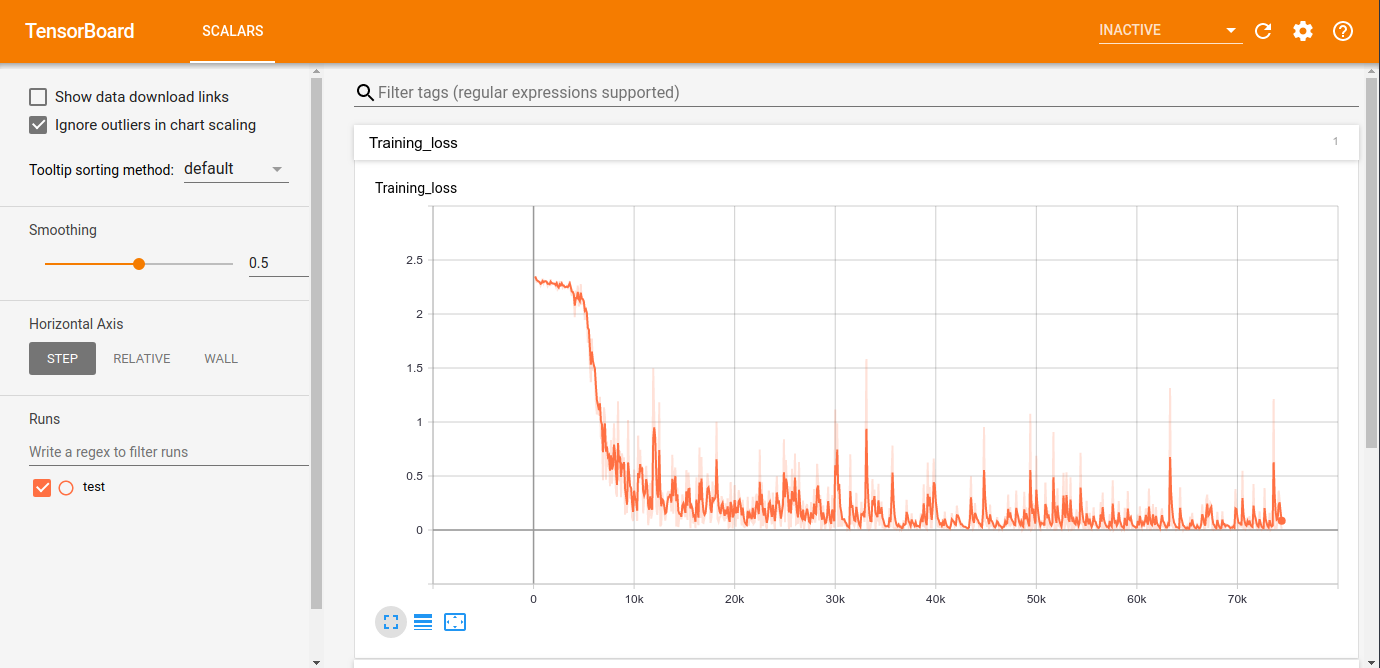
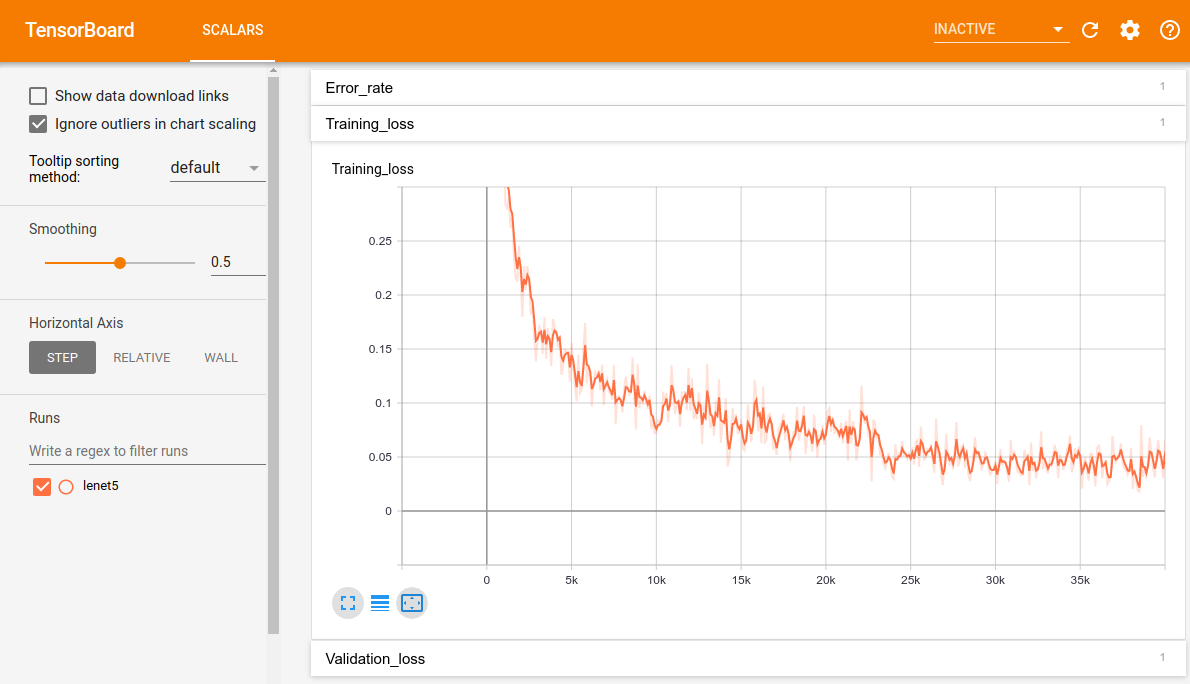
docs: Updated readme

diff --git a/README.md b/README.md
@@ -27,7 +27,7 @@ How to train your model
 
 
 ```bash
-python img_classification/main.py test --dataset mnist -n 10 --lr 5e-5 --batch_size 8 --momentum 0.9 --weight_decay 5e-4 --nesterov
+python img_classification/main.py lenet5 --dataset mnist -n 10 --lr 5e-4 --batch_size 8 --optimizer adam --drop_rate 0.3 --workers 8
 ```
 
 
@@ -35,16 +35,34 @@ python img_classification/main.py test --dataset mnist -n 10 --lr 5e-5 --batch_s
 Depending on your seed, you should get similar results to:
 
 ```bash
-Epoch 1/10 - Validation loss: 0.637735663574934 - Accuracy: 0.8272                                                                                              
-Epoch 2/10 - Validation loss: 0.2974701254960149 - Accuracy: 0.9073                                                                                             
-Epoch 3/10 - Validation loss: 0.20943492125663907 - Accuracy: 0.9384                                                                                            
-Epoch 4/10 - Validation loss: 0.16496901647993364 - Accuracy: 0.9528                                                                                            
-Epoch 5/10 - Validation loss: 0.12413150504280347 - Accuracy: 0.963                                                                                             
-Epoch 6/10 - Validation loss: 0.11015441644398961 - Accuracy: 0.9674                                                                                            
-Epoch 7/10 - Validation loss: 0.09114648424847983 - Accuracy: 0.9742                                                                                            
-Epoch 8/10 - Validation loss: 0.08870566121073789 - Accuracy: 0.9721                                                                                            
-Epoch 9/10 - Validation loss: 0.07673511246949201 - Accuracy: 0.9768                                                                                            
-Epoch 10/10 - Validation loss: 0.07370509473233833 - Accuracy: 0.9786 
+Data transformations:
+Compose(
+    RandomRotation(degrees=(-30, 30), resample=False, expand=False)
+    ToTensor()
+    Normalize(mean=(0.1307,), std=(0.3081,))
+)
+
+Epoch 1/10 - Validation loss: 0.08775 (Acc@1: 96.97%)                                                                                                           
+Validation loss decreased inf --> 0.08775: saving state...
+Epoch 2/10 - Validation loss: 0.05491 (Acc@1: 98.20%)                                                                                                           
+Validation loss decreased 0.08775 --> 0.05491: saving state...
+Epoch 3/10 - Validation loss: 0.06731 (Acc@1: 97.83%)                                                                                                           
+Epoch     2: reducing learning rate of group 0 to 2.5000e-04.
+Epoch 4/10 - Validation loss: 0.04157 (Acc@1: 98.69%)                                                                                                           
+Validation loss decreased 0.05491 --> 0.04157: saving state...
+Epoch 5/10 - Validation loss: 0.03381 (Acc@1: 98.85%)                                                                                                           
+Validation loss decreased 0.04157 --> 0.03381: saving state...
+Epoch 6/10 - Validation loss: 0.03288 (Acc@1: 98.97%)                                                                                                           
+Validation loss decreased 0.03381 --> 0.03288: saving state...
+Epoch 7/10 - Validation loss: 0.03146 (Acc@1: 99.07%)                                                                                                           
+Validation loss decreased 0.03288 --> 0.03146: saving state...
+Epoch 8/10 - Validation loss: 0.03196 (Acc@1: 99.03%)                                                                                                           
+Epoch     7: reducing learning rate of group 0 to 1.2500e-04.
+Epoch 9/10 - Validation loss: 0.02716 (Acc@1: 99.26%)                                                                                                           
+Validation loss decreased 0.03146 --> 0.02716: saving state...
+Epoch 10/10 - Validation loss: 0.02684 (Acc@1: 99.22%)                                                                                                          
+Validation loss decreased 0.02716 --> 0.02684: saving state...
+
 ```
 
 
@@ -54,7 +72,7 @@ Epoch 10/10 - Validation loss: 0.07370509473233833 - Accuracy: 0.9786
 Start the tensorboard server locally to visualize your training losses:
 
 ```bash
-tensorboard --logdir=logs
+tensorboard --logdir=training-outputs/logs
 ```
 
 Then open a new tab in your browser and navigate to `<YOUR_COMPUTER_NAME>:6006`  to monitor your training.
